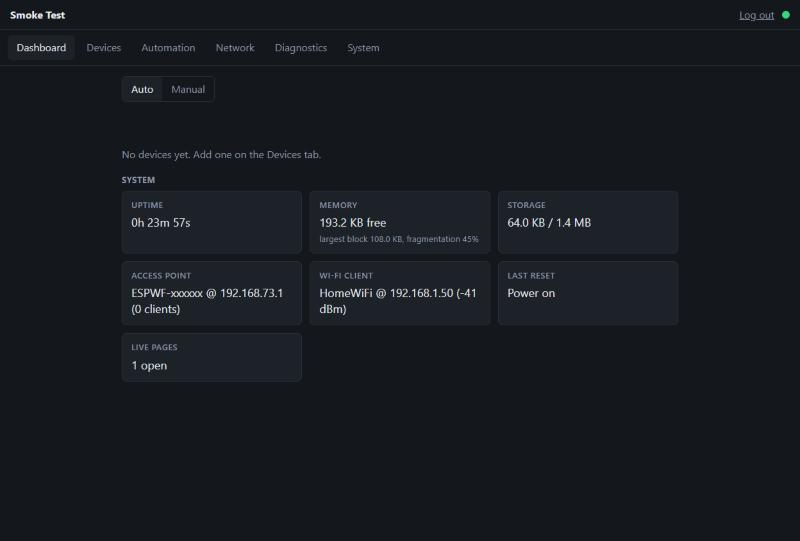
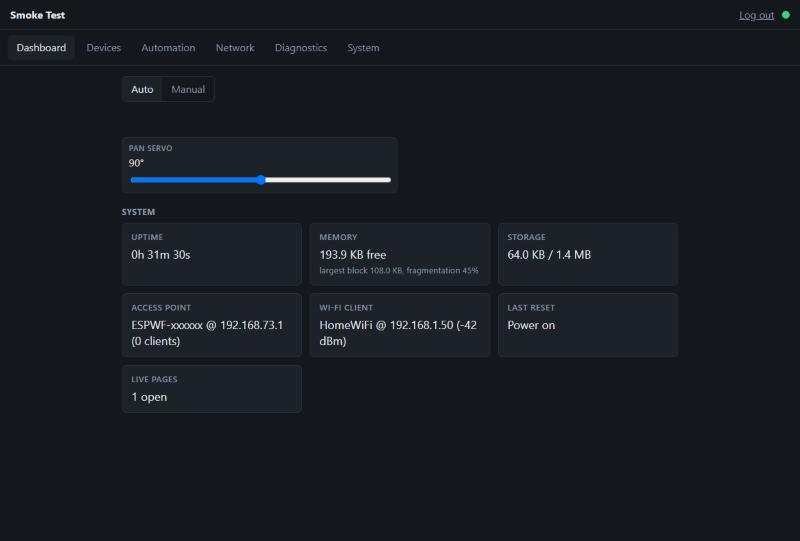
README: ESP32 screenshots now show a servo device on the dashboard and Devices tab
The PING sensor was not wired, so it is left out of the live shots; the
add-device form shot stays, marked as not submitted.

Changed region(s): [[0.1562, 0.2662, 0.5938, 0.7394], [0.625, 0.3549, 0.75, 0.6211]]

diff --git a/README.md b/README.md
@@ -140,17 +140,19 @@ The page is responsive, so a phone or tablet is the controller in the field.
 
 ## Running on an ESP32
 
-The same firmware and the same page run on an **ESP32 DevKit (WROOM-32)**. These screenshots are from a real board, flashed with `-e esp32dev` and reached over its home-network address (network name, address and chip ID masked). The board is fresh, so there are no devices yet; the add-device form already offers the new Parallax PING))) sensor.
+The same firmware and the same page run on an **ESP32 DevKit (WROOM-32)**. These screenshots are from a real board, flashed with `-e esp32dev` and reached over its home-network address (network name, address and chip ID masked). The board has one device, a direct servo on GPIO 18, and its slider appears on the dashboard by itself. The add-device form already offers the new Parallax PING))) sensor (shown filled in, not submitted: no sensor was connected). The System and Diagnostics shots were taken before the servo was added, so their device lists are empty.
 
-| Dashboard | Add a PING))) sensor |
+| Dashboard | Devices |
 |---|---|
-| ![Dashboard served by an ESP32](docs/img/esp32-01-dashboard.png) | ![Add device form with the PING))) chip selected](docs/img/esp32-02-add-ping-sensor.png) |
+| ![Dashboard served by an ESP32, with a servo slider](docs/img/esp32-01-dashboard.png) | ![Devices tab on an ESP32, with the servo card](docs/img/esp32-05-devices.png) |
 
-| System: chip ESP32 @ 240 MHz | Diagnostics |
+| Add a PING))) sensor | System: chip ESP32 @ 240 MHz |
 |---|---|
-| ![System tab on an ESP32](docs/img/esp32-03-system.png) | ![Diagnostics tab on an ESP32](docs/img/esp32-04-diagnostics.png) |
+| ![Add device form with the PING))) chip selected](docs/img/esp32-02-add-ping-sensor.png) | ![System tab on an ESP32](docs/img/esp32-03-system.png) |
 
-What has been checked on the ESP32: it boots, serves the dashboard, joins Wi-Fi and runs the device registry. What has not: the PING))) sensor reading a real distance (the driver is built and tested natively, but no sensor has been connected to the board yet), the per-phase hardware checklists row by row, and a long soak (the ESP8266 had both). The ESP32-S3 target is compile-checked only. See [Project status](#project-status).
+![Diagnostics tab on an ESP32](docs/img/esp32-04-diagnostics.png)
+
+What has been checked on the ESP32: it boots, serves the dashboard, joins Wi-Fi and runs the device registry (the servo was added from the page). The servo's physical movement was not recorded in these shots. What has not: the PING))) sensor reading a real distance (the driver is built and tested natively, but no sensor has been connected to the board yet), the per-phase hardware checklists row by row, and a long soak (the ESP8266 had both). The ESP32-S3 target is compile-checked only. See [Project status](#project-status).
 
 ## Supported hardware and devices
 
